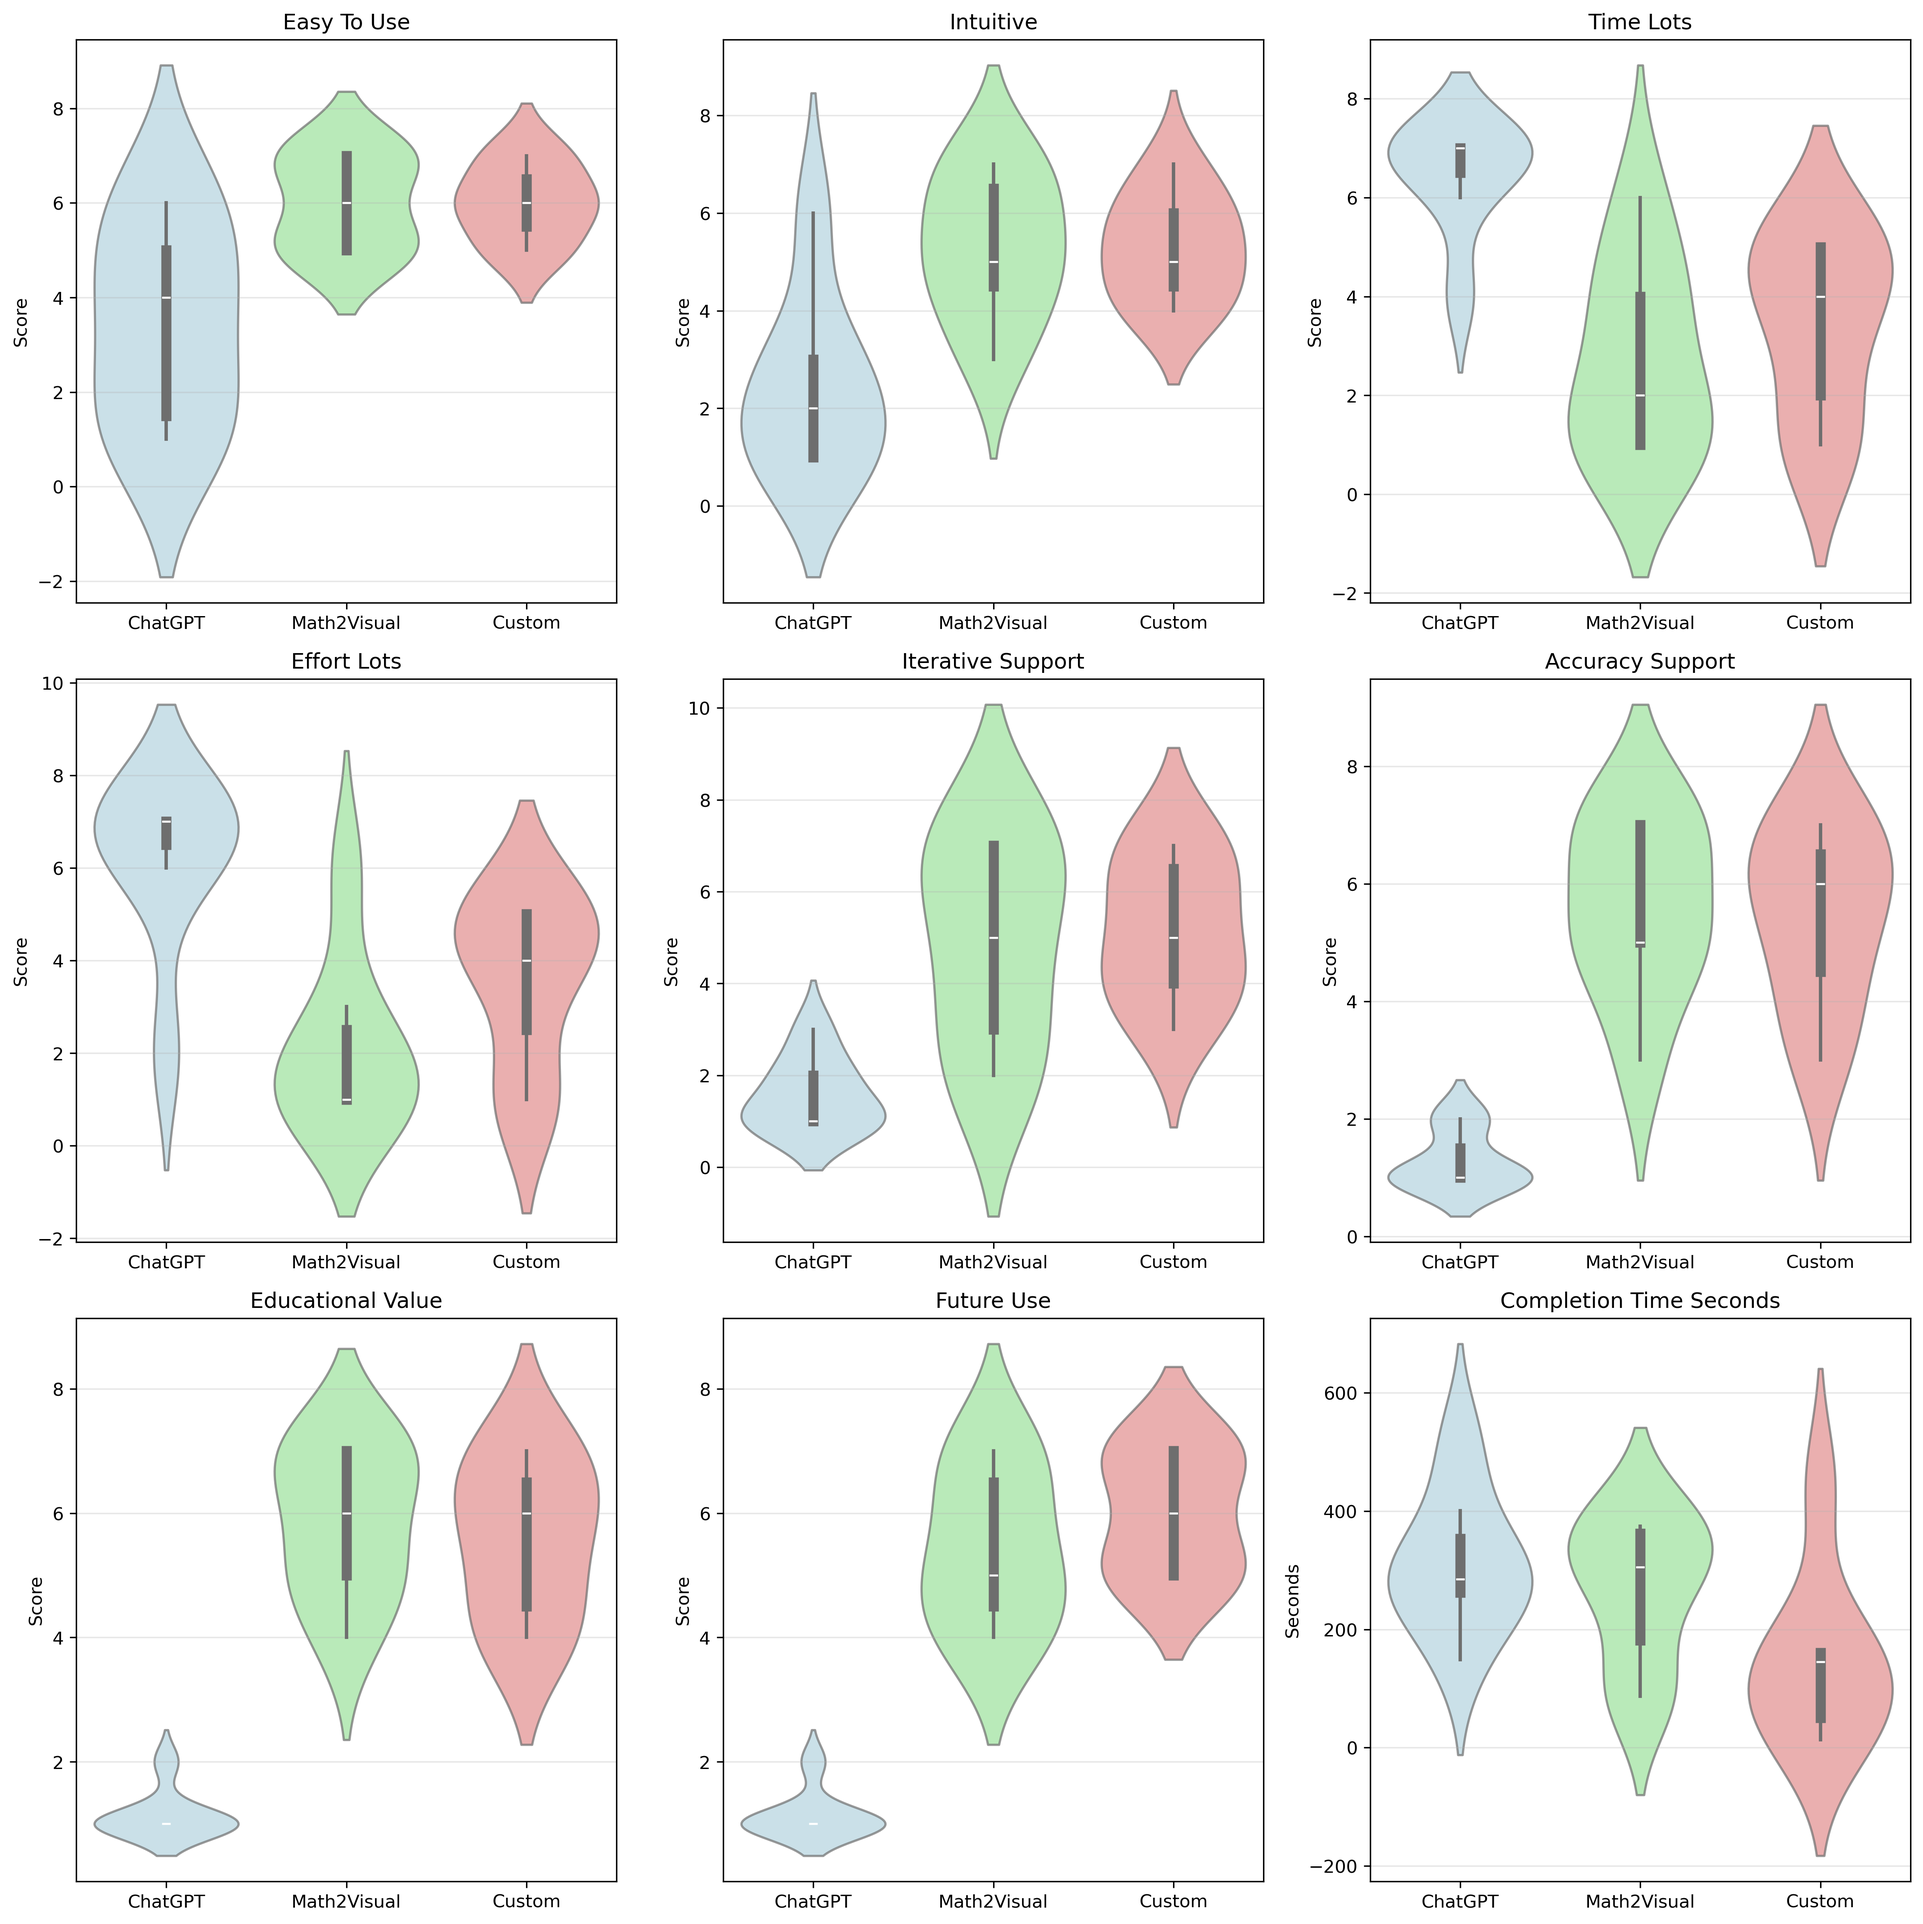
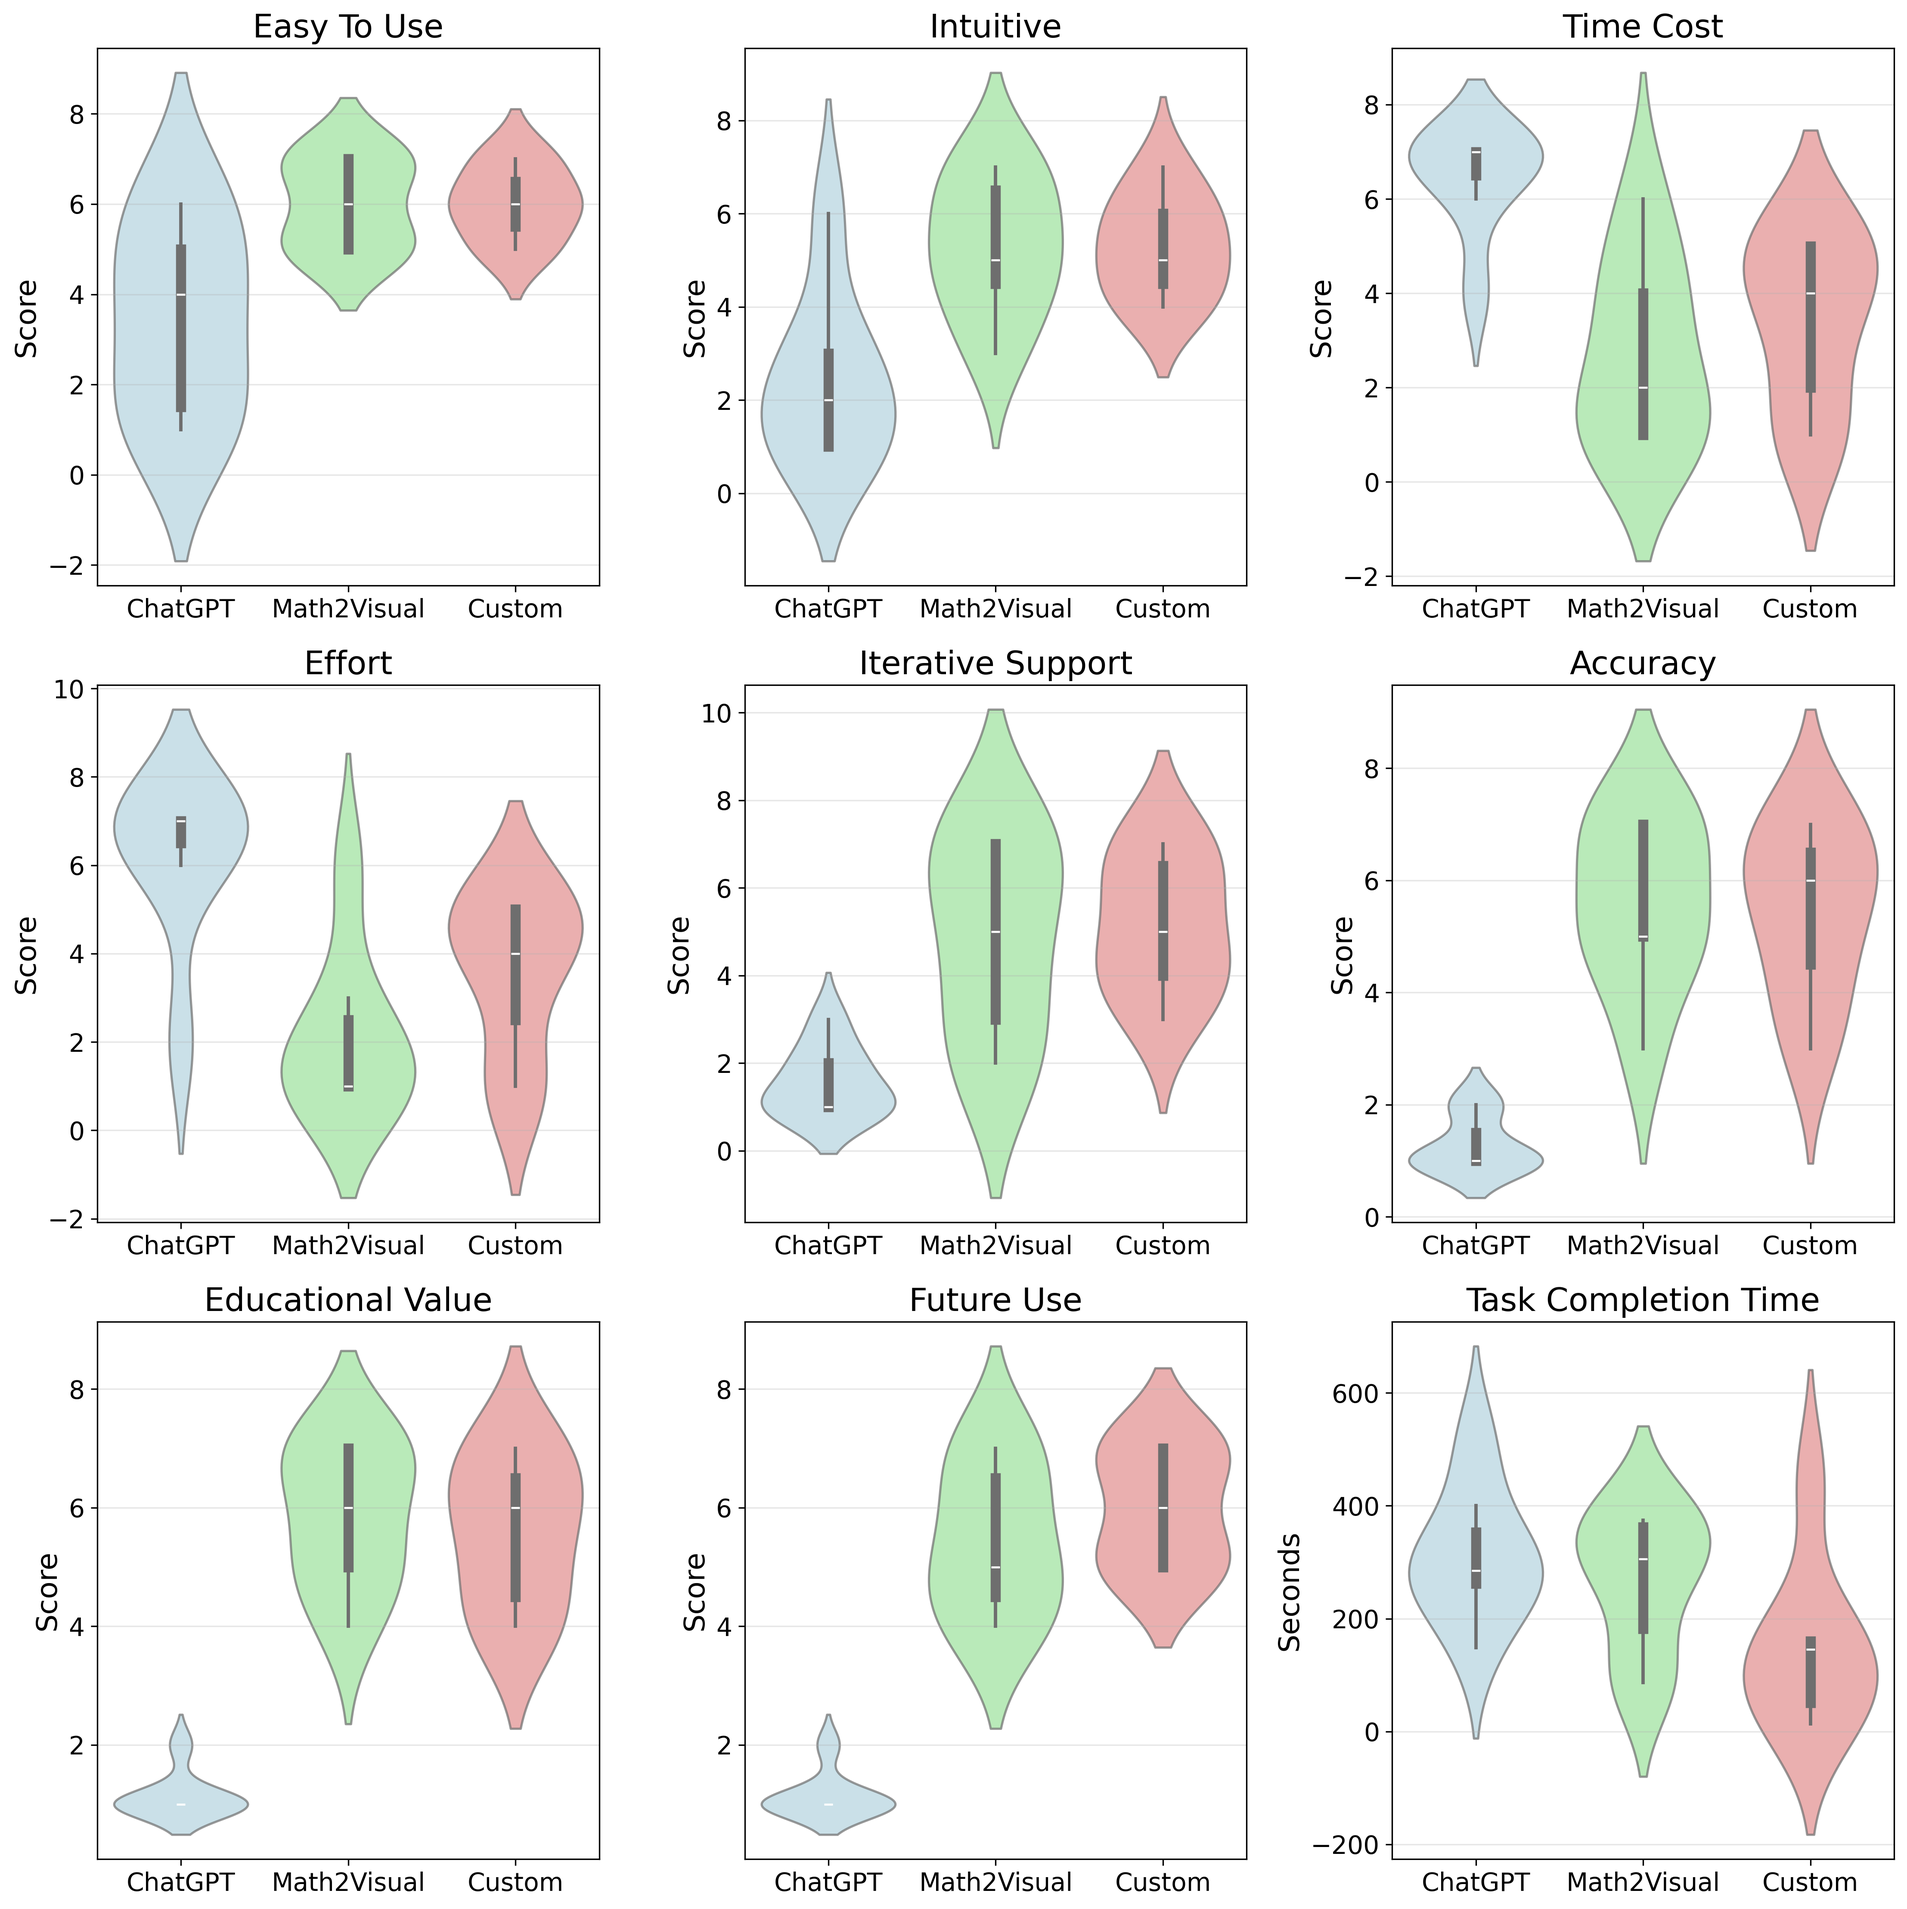
Update statistical analysis and visualizations in user study
- Enhanced `create_visualizations` function with larger font sizes for improved readability.
- Updated variable names in `statistical_analysis.py` and `study_data.csv` for consistency, changing `time_lots` to `time_cost` and `completion_time_seconds` to `task_completion_time`.
- Modified `statistical_results.csv` to reflect the new variable names and ensure accurate data representation in statistical comparisons.
- Updated `analysis_plots.png` to reflect the latest visualizations.

diff --git a/user_study/statistical_analysis.py b/user_study/statistical_analysis.py
@@ -132,6 +132,17 @@ def wilcoxon_effect_size_rb(differences):
 
 def create_visualizations(df, variables, method_pairs):
     """Create violin plots for all variables across methods"""
+    # Set larger font sizes for all plot elements
+    plt.rcParams.update({
+        'font.size': 14,           # Base font size
+        'axes.titlesize': 18,      # Title font size
+        'axes.labelsize': 16,      # X and Y label font size
+        'xtick.labelsize': 14,     # X tick label font size
+        'ytick.labelsize': 14,     # Y tick label font size
+        'legend.fontsize': 14,     # Legend font size
+        'figure.titlesize': 20     # Figure title font size
+    })
+    
     n_vars = len(variables)
     n_cols = 3
     n_rows = (n_vars + n_cols - 1) // n_cols
@@ -152,7 +163,7 @@ def create_visualizations(df, variables, method_pairs):
                       palette=palette, alpha=0.7)
         
         ax.set_xlabel('')
-        ax.set_ylabel('Score' if var != 'completion_time_seconds' else 'Seconds')
+        ax.set_ylabel('Score' if var != 'task_completion_time' else 'Seconds')
         ax.set_title(var.replace('_', ' ').title())
         ax.grid(True, alpha=0.3, axis='y')
     
@@ -163,6 +174,10 @@ def create_visualizations(df, variables, method_pairs):
     plt.tight_layout()
     plt.savefig('analysis_plots.png', dpi=300, bbox_inches='tight')
     plt.close()
+    
+    # Reset to default font sizes
+    plt.rcParams.update(plt.rcParamsDefault)
+    
     print("  Plots saved to 'analysis_plots.png'")
 
 # Load data
@@ -179,15 +194,15 @@ print(f"  Methods: {df['method'].unique()}")
 likert_vars = [
     'easy_to_use', 
     'intuitive', 
-    'time_lots',  # reverse-scored
-    'effort_lots',  # reverse-scored
+    'time_cost',  # reverse-scored
+    'effort',  # reverse-scored
     'iterative_support', 
-    'accuracy_support', 
+    'accuracy', 
     'educational_value', 
     'future_use'
 ]
 
-continuous_vars = ['completion_time_seconds']
+continuous_vars = ['task_completion_time']
 
 all_vars = likert_vars + continuous_vars
 
